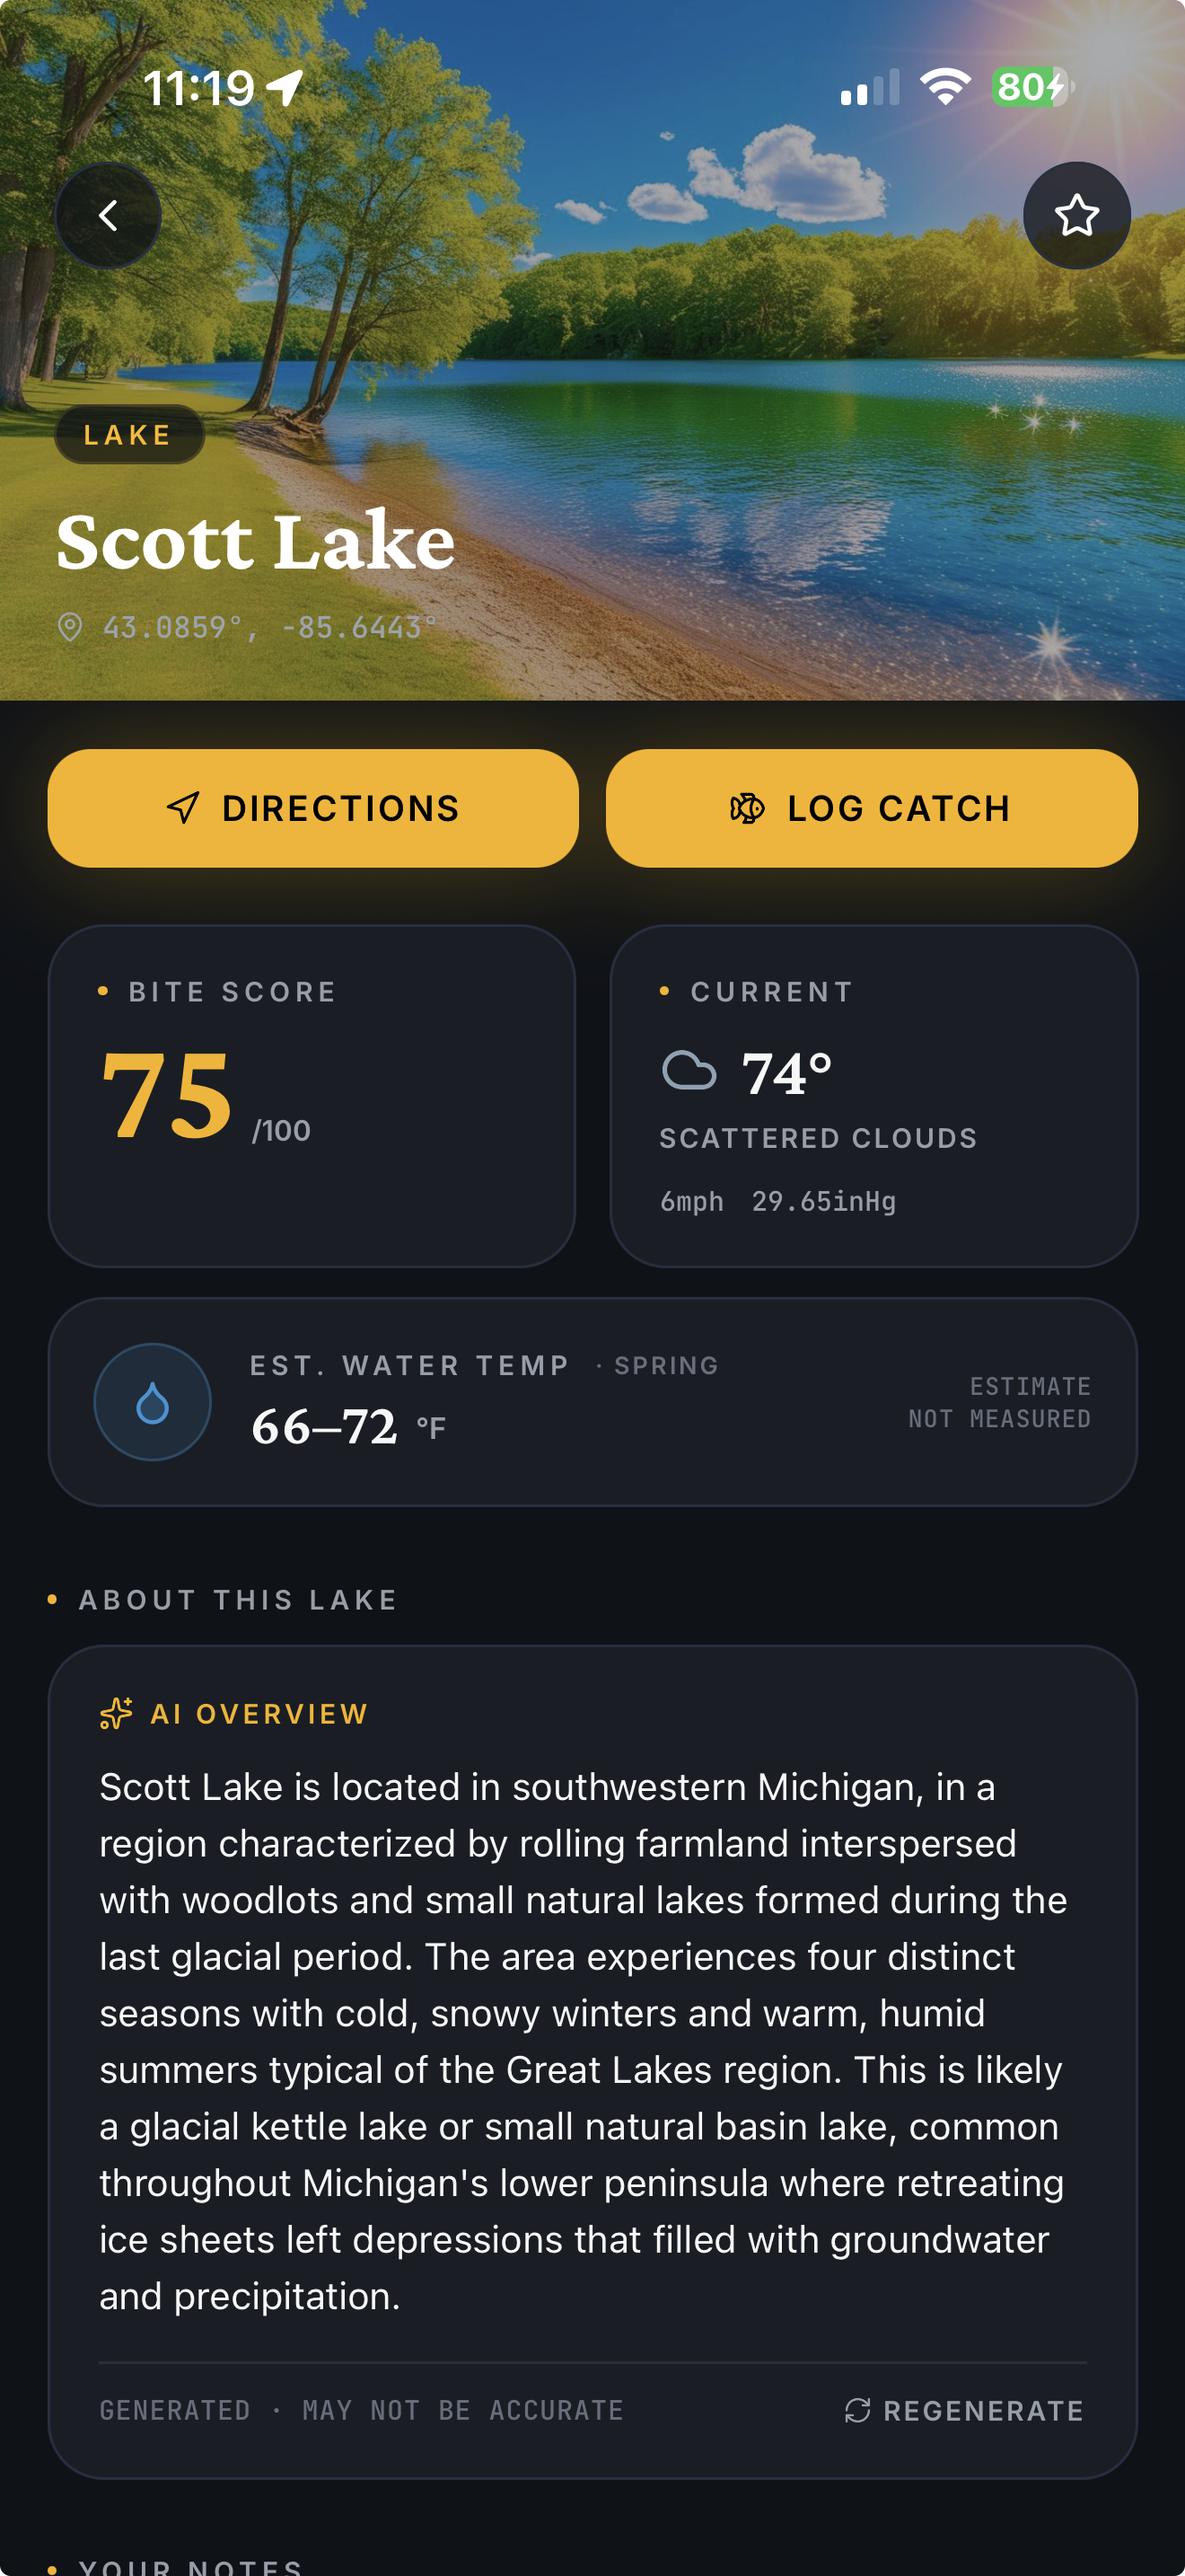
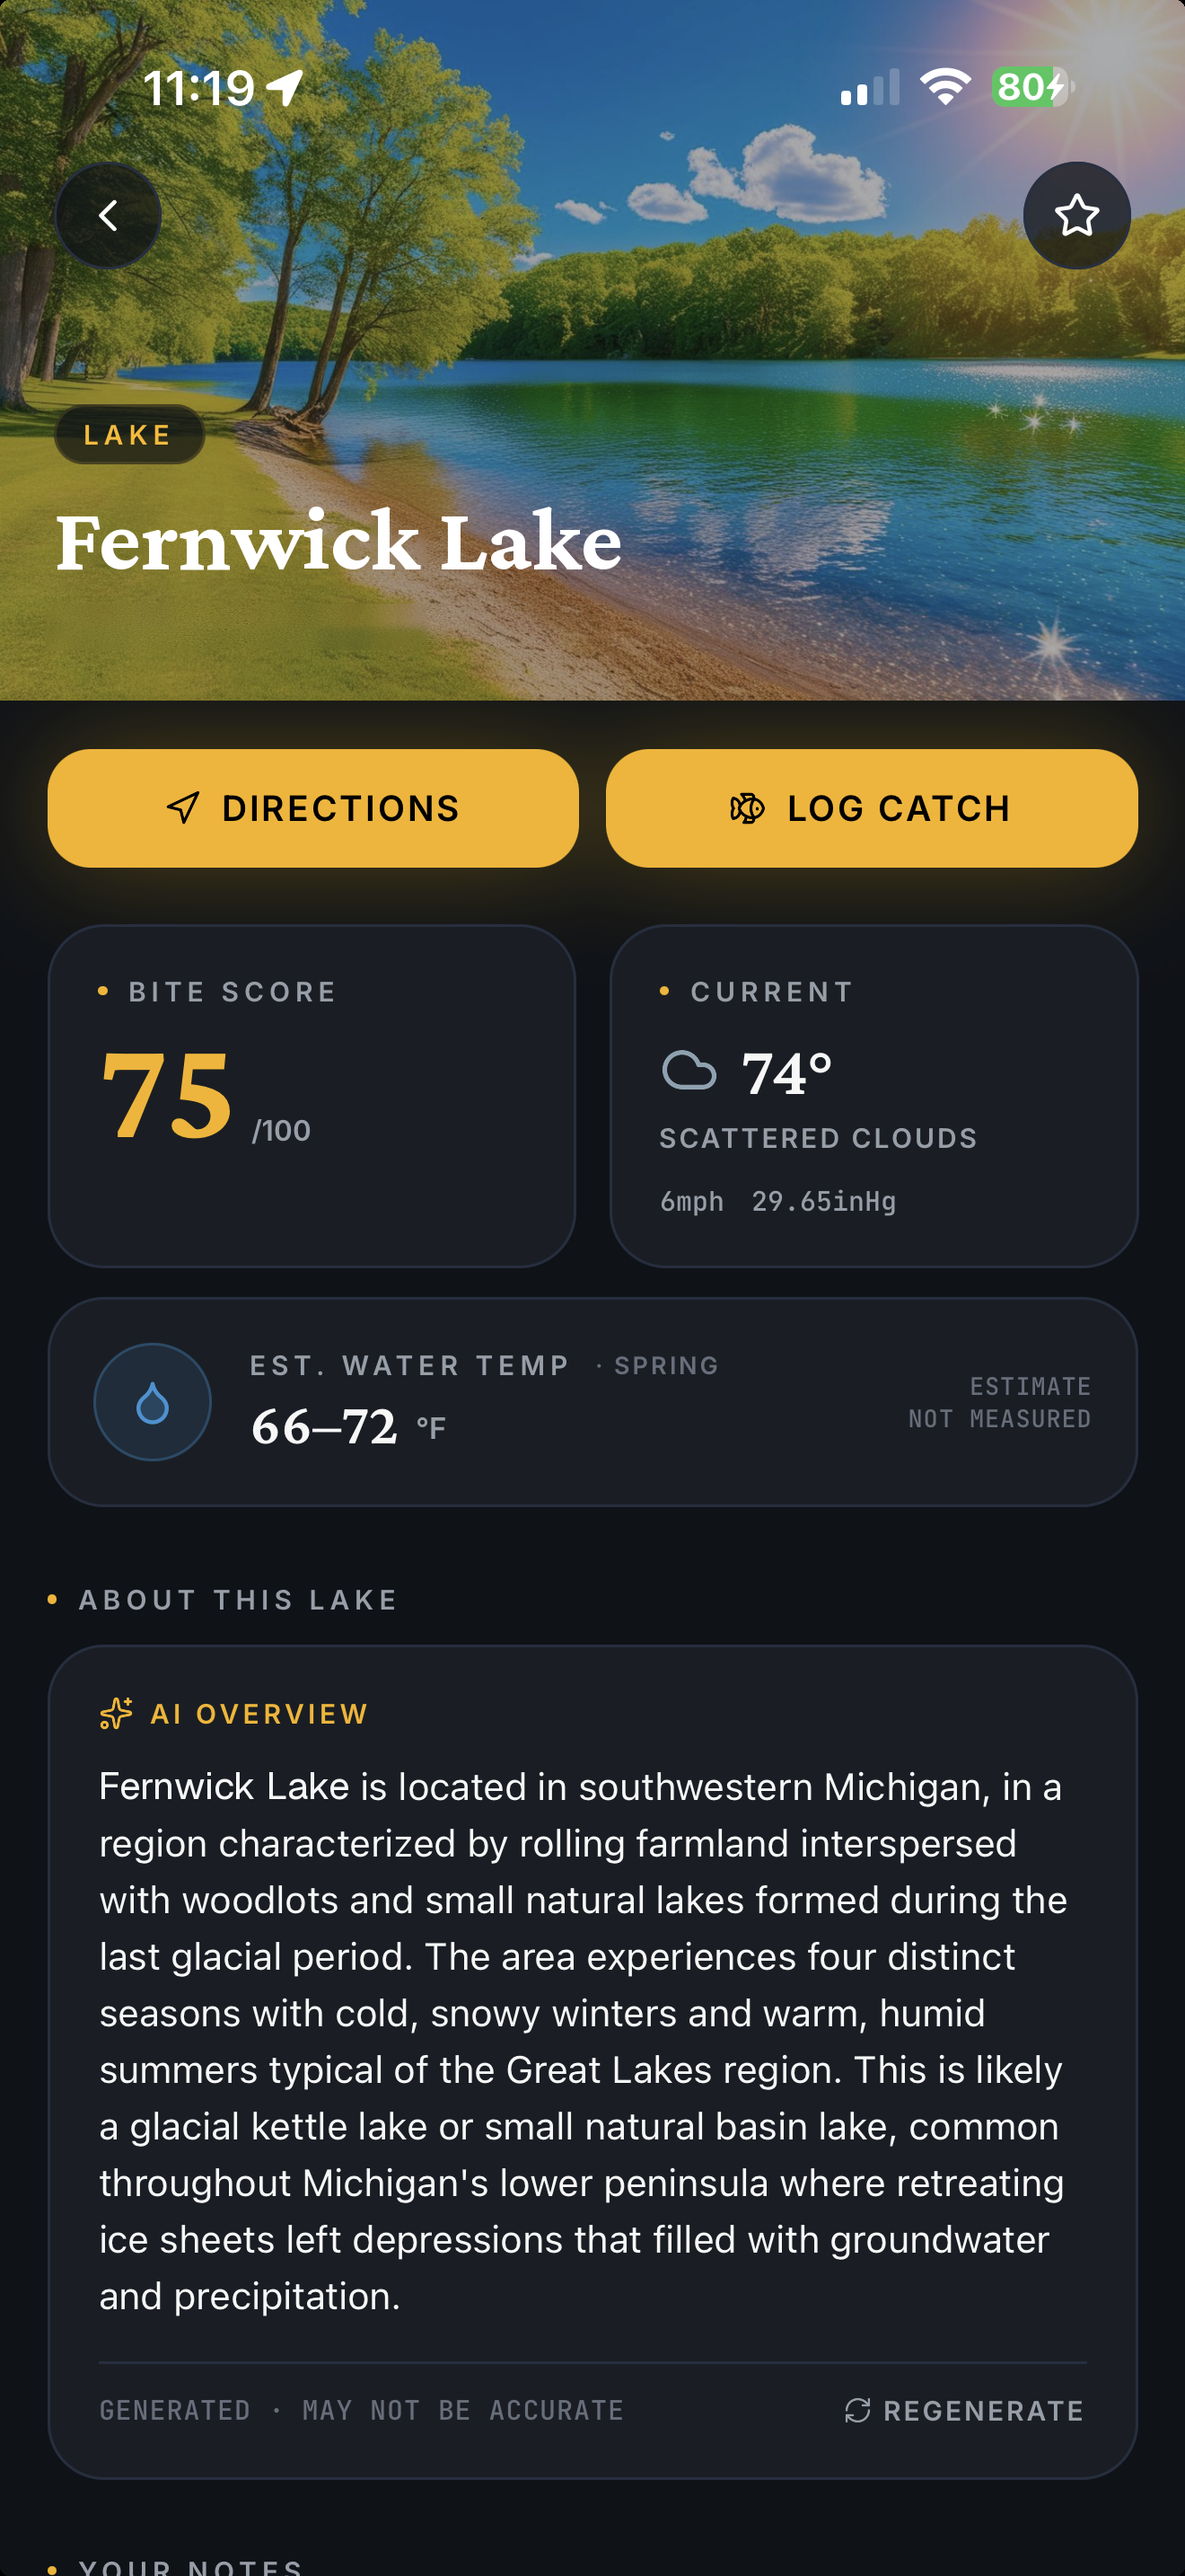
Scrub Scott Lake name and GPS from Know the bite screenshot (#76)
Replace lake_detail PNG/WebP with scrubbed assets (Fernwick Lake,
no coordinates) and update homepage alt text plus blog alt/figcaption
(and markdown source) so rebuilds keep the fictional lake name.

Changed region(s): [[0.0311, 0.1862, 0.528, 0.2483], [0.0932, 0.6827, 0.8386, 0.7137], [0.9939, 0.993, 1.0, 1.0]]

diff --git a/blog/late-fall-walleye-after-turnover/index.html b/blog/late-fall-walleye-after-turnover/index.html
@@ -227,7 +227,7 @@ footer div{margin-bottom:8px}
 <li>What the water and weather were doing — surface temp if I have it, air temp, wind, pressure</li>
 </ul>
 <p>CastLog is built for that moment when your hands are cold and you don&#39;t want to type. Voice logging takes a sentence. Manual logging is three taps, done in seconds, and it works offline. Conditions can come in automatically, so I&#39;m not thumbing through a weather app in the wind.</p>
-<figure class="inline-image"><img src="/Images/lake_detail.png" alt="CastLog lake screen for Scott Lake in Michigan, showing a Bite Score of 75 out of 100, 74°F air temperature with scattered clouds, and an estimated spring water-temperature range of 66–72°F labeled as an estimate, not a measurement." loading="lazy"><figcaption>The CastLog lake view on Scott Lake, Michigan: Bite Score, current weather, and a water-temperature estimate. The air temperature, spring temp band, and green shoreline in this screenshot are a warmer-season example of the UI — not late-fall readings.</figcaption></figure>
+<figure class="inline-image"><img src="/Images/lake_detail.png" alt="CastLog lake screen for Fernwick Lake, showing a Bite Score of 75 out of 100, 74°F air temperature with scattered clouds, and an estimated spring water-temperature range of 66–72°F labeled as an estimate, not a measurement." loading="lazy"><figcaption>The CastLog lake view on Fernwick Lake: Bite Score, current weather, and a water-temperature estimate. The air temperature, spring temp band, and green shoreline in this screenshot are a warmer-season example of the UI — not late-fall readings.</figcaption></figure>
 
 <p>On that screen, Bite Score is a 0–100 read on the day&#39;s conditions — weather, pressure trend, water temp, and season — not a promise that fish will bite. I use it before I drive, then I trust what I actually catch and log. If you want the fuller breakdown of how to read that number, I walked through it in <a href="/blog/lake-intelligence-bite-score/">Bite Score explained</a>.</p>
 <p>The payoff shows up later. After enough catches, <a href="/blog/fishing-pattern-recognition-ai/">pattern recognition</a> is just your history stacked: which points produced at which temps, whether the spoon bite showed up on a falling afternoon, whether 1-mph trolling only worked on a particular wind. CastLog starts surfacing those correlations after about 25 catches, from your water, not a generic lake.</p>

diff --git a/index.html b/index.html
@@ -1157,7 +1157,7 @@ footer a:focus-visible{
       <div class="iphone-screen">
         <picture>
           <source srcset="Images/lake_detail.webp" type="image/webp">
-          <img src="Images/lake_detail.png" alt="CastLog lake screen for Scott Lake with a Bite Score of 75, weather, and water temperature" width="720" height="1564" loading="lazy" decoding="async" style="width:100%;height:100%;object-fit:cover;object-position:top;display:block;">
+          <img src="Images/lake_detail.png" alt="CastLog lake screen for Fernwick Lake with a Bite Score of 75, weather, and water temperature" width="720" height="1564" loading="lazy" decoding="async" style="width:100%;height:100%;object-fit:cover;object-position:top;display:block;">
         </picture>
       </div>
     </div>

diff --git a/blog/posts/2026-11-16-late-fall-walleye-after-turnover.md b/blog/posts/2026-11-16-late-fall-walleye-after-turnover.md
@@ -61,7 +61,7 @@ I want four things in the log, every time:
 
 CastLog is built for that moment when your hands are cold and you don't want to type. Voice logging takes a sentence. Manual logging is three taps, done in seconds, and it works offline. Conditions can come in automatically, so I'm not thumbing through a weather app in the wind.
 
-<figure class="inline-image"><img src="/Images/lake_detail.png" alt="CastLog lake screen for Scott Lake in Michigan, showing a Bite Score of 75 out of 100, 74°F air temperature with scattered clouds, and an estimated spring water-temperature range of 66–72°F labeled as an estimate, not a measurement." loading="lazy"><figcaption>The CastLog lake view on Scott Lake, Michigan: Bite Score, current weather, and a water-temperature estimate. The air temperature, spring temp band, and green shoreline in this screenshot are a warmer-season example of the UI — not late-fall readings.</figcaption></figure>
+<figure class="inline-image"><img src="/Images/lake_detail.png" alt="CastLog lake screen for Fernwick Lake, showing a Bite Score of 75 out of 100, 74°F air temperature with scattered clouds, and an estimated spring water-temperature range of 66–72°F labeled as an estimate, not a measurement." loading="lazy"><figcaption>The CastLog lake view on Fernwick Lake: Bite Score, current weather, and a water-temperature estimate. The air temperature, spring temp band, and green shoreline in this screenshot are a warmer-season example of the UI — not late-fall readings.</figcaption></figure>
 
 On that screen, Bite Score is a 0–100 read on the day's conditions — weather, pressure trend, water temp, and season — not a promise that fish will bite. I use it before I drive, then I trust what I actually catch and log. If you want the fuller breakdown of how to read that number, I walked through it in [Bite Score explained](/blog/lake-intelligence-bite-score/).
 
